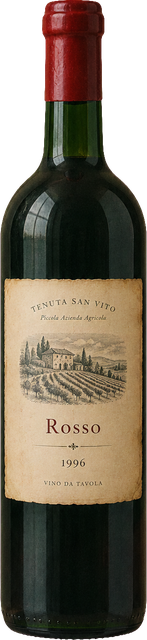
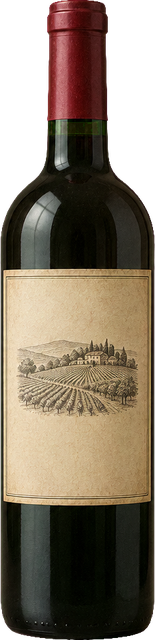
Day 42: 포장지 — 선물 사진에서 글씨 뺌 (선인장 팻말·향초 태그·와인 연도)

diff --git a/2026-11-19/index.html b/2026-11-19/index.html
@@ -258,16 +258,16 @@ const ITEMS = [
   { id: 'plush', name: '털복숭이 원숭이 인형', short: '털 인형', w: 156, h: 208, tags: ['cute', 'colorful'],
     meta: '중고 · 오른쪽 귀 실밥 풀림',
     msg: '조카가 놀이공원에서 잃어버리고 사흘을 울었대요. 똑같은 걸 중고로 겨우 찾았어요. 귀 실밥 풀린 것까지 닮았어요. 무조건 귀엽게요!' },
-  { id: 'candle', name: '무화과 향초', short: '향초', w: 140, h: 166, tags: ['natural', 'elegant'],
+  { id: 'candle', name: '무화과 향초', short: '향초', w: 124, h: 175, tags: ['natural', 'elegant'],
     meta: '제주 작은 공방 · 무화과와 시더',
     msg: '공방 사장님이 직접 부은 향초예요. 친구가 원목 가구 가득한 집으로 이사했어요. 새 집 첫 밤에 켜 달라고 할 거예요.' },
-  { id: 'wine', name: '레드 와인 한 병', short: '와인', w: 66, h: 285, tags: ['elegant', 'classic'],
+  { id: 'wine', name: '레드 와인 한 병', short: '와인', w: 69, h: 285, tags: ['elegant', 'classic'],
     meta: 'Rosso · 1996 빈티지',
     msg: '부모님이 결혼하신 해에 담근 와인이에요. 결혼 30주년이라 반년 동안 찾았어요. 점잖게 부탁드려요.' },
   { id: 'book', name: '오래된 시집', short: '시집', w: 150, h: 226, tags: ['retro', 'natural', 'classic'],
     meta: '1987 · 초판 · 헌책방에서',
     msg: '속표지에 누가 연필로 "봄에, 너에게"라고 써 놨어요. 그 한 줄 때문에 샀어요. 헌책방 하는 선배한테 드려요.' },
-  { id: 'cactus', name: '손바닥 선인장', short: '선인장', w: 100, h: 198, tags: ['fun', 'natural'],
+  { id: 'cactus', name: '손바닥 선인장', short: '선인장', w: 106, h: 198, tags: ['fun', 'natural'],
     meta: '이름은 버티기 · 물은 한 달에 한 번',
     msg: '퇴사하는 동기한테 줘요. 화분마다 다 죽이던 친구라 제일 튼튼한 걸로 골랐어요. 웃으면서 보내고 싶어요.' },
   { id: 'shoes', name: '한정판 운동화', short: '운동화', w: 260, h: 129, tags: ['fun', 'rough', 'colorful'],
